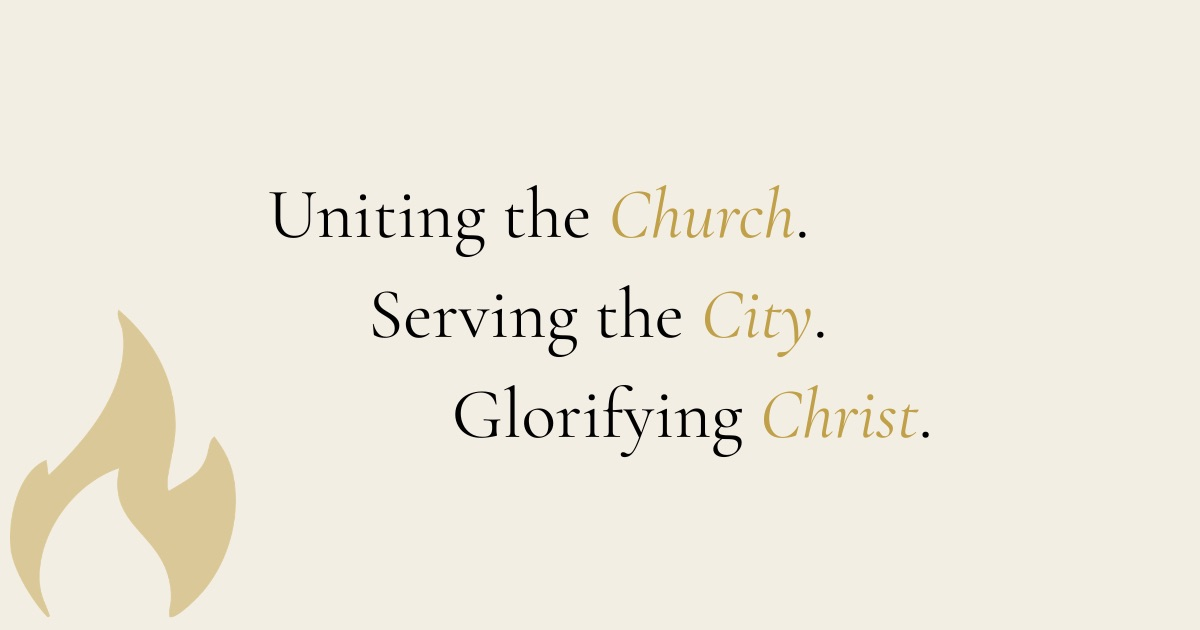
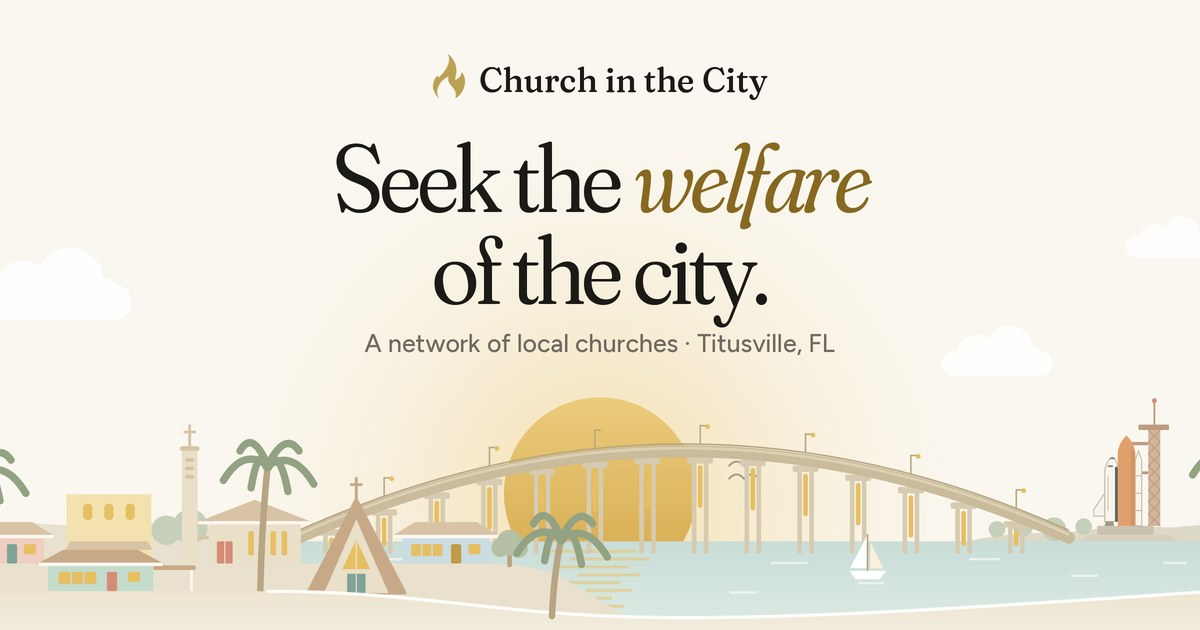
New link preview image in the redesign's look
Replace og-default.jpg with a 1200x630 still of the Titusville sunrise
hero, the site name and the hero headline, and add ?v=2 to the preview
URL so share caches fetch the new file.

Changed region(s): [[0.0, 0.2111, 1.0, 0.9952], [0.3392, 0.0905, 0.6475, 0.1508], [0.7708, 0.5127, 0.8942, 0.6032]]

diff --git a/index.html b/index.html
@@ -26,11 +26,11 @@
     <meta property="og:title" content="Church in the City">
     <meta property="og:description" content="A collaborative initiative of churches working together to love and serve our city.">
     <meta property="og:url" content="https://thechurchinthecity.org">
-    <meta property="og:image" content="https://thechurchinthecity.org/og-default.jpg">
+    <meta property="og:image" content="https://thechurchinthecity.org/og-default.jpg?v=2">
     <meta name="twitter:card" content="summary_large_image">
     <meta name="twitter:title" content="Church in the City">
     <meta name="twitter:description" content="A collaborative initiative of churches working together to love and serve our city.">
-    <meta name="twitter:image" content="https://thechurchinthecity.org/og-default.jpg">
+    <meta name="twitter:image" content="https://thechurchinthecity.org/og-default.jpg?v=2">
   </head>
   <body data-accent="gold" data-display="serif" data-motion="on" data-density="airy">
     <div id="root"></div>

diff --git a/src/pages/BlogPost.jsx b/src/pages/BlogPost.jsx
@@ -5,7 +5,7 @@ import remarkGfm from 'remark-gfm';
 import { blogPosts, featuredPost } from '../data/blog.js';
 
 const allPosts = [featuredPost, ...blogPosts];
-const DEFAULT_OG_IMAGE = 'https://thechurchinthecity.org/og-default.jpg';
+const DEFAULT_OG_IMAGE = 'https://thechurchinthecity.org/og-default.jpg?v=2';
 const SITE_URL = 'https://thechurchinthecity.org';
 const markdownBodies = import.meta.glob('../content/blog/*.md', {
   query: '?raw',

diff --git a/src/data/pageMeta.js b/src/data/pageMeta.js
@@ -6,7 +6,7 @@
 // ============================================================
 
 export const siteUrl = 'https://thechurchinthecity.org';
-export const defaultImage = `${siteUrl}/og-default.jpg`;
+export const defaultImage = `${siteUrl}/og-default.jpg?v=2`;
 export const siteName = 'Church in the City';
 
 const defaultDescription =

diff --git a/CHANGELOG.md b/CHANGELOG.md
@@ -6,6 +6,24 @@ Claude Code: add an entry at the end of every phase or manual change.
 
 ---
 
+## 2026-11-11 — New link preview image (branch `claude/project-thread-rs09bx`)
+
+### Code
+- `public/og-default.jpg` replaced with a 1200x630 preview in the redesign's
+  look: the Titusville sunrise scene from the homepage hero (frozen with the
+  windows lit), the flame and "Church in the City", the hero headline
+  "Seek the welfare of the city." in Fraunces with "welfare" in gold, and the
+  line "A network of local churches · Titusville, FL" in Figtree.
+- The preview URL is now `og-default.jpg?v=2` in `index.html`,
+  `src/data/pageMeta.js` (used by `Seo.jsx` and the prerender script) and
+  `src/pages/BlogPost.jsx`, so Facebook, iMessage and others fetch the new
+  file instead of a cached copy. Blog posts with their own cover keep it.
+
+### Manual
+- After deploy, rescrape the homepage in Facebook's Sharing Debugger.
+
+---
+
 ## 2026-11-10 — Security hardening (branch `security/hardening`)
 
 From a security review of the site, database, and hosting.
